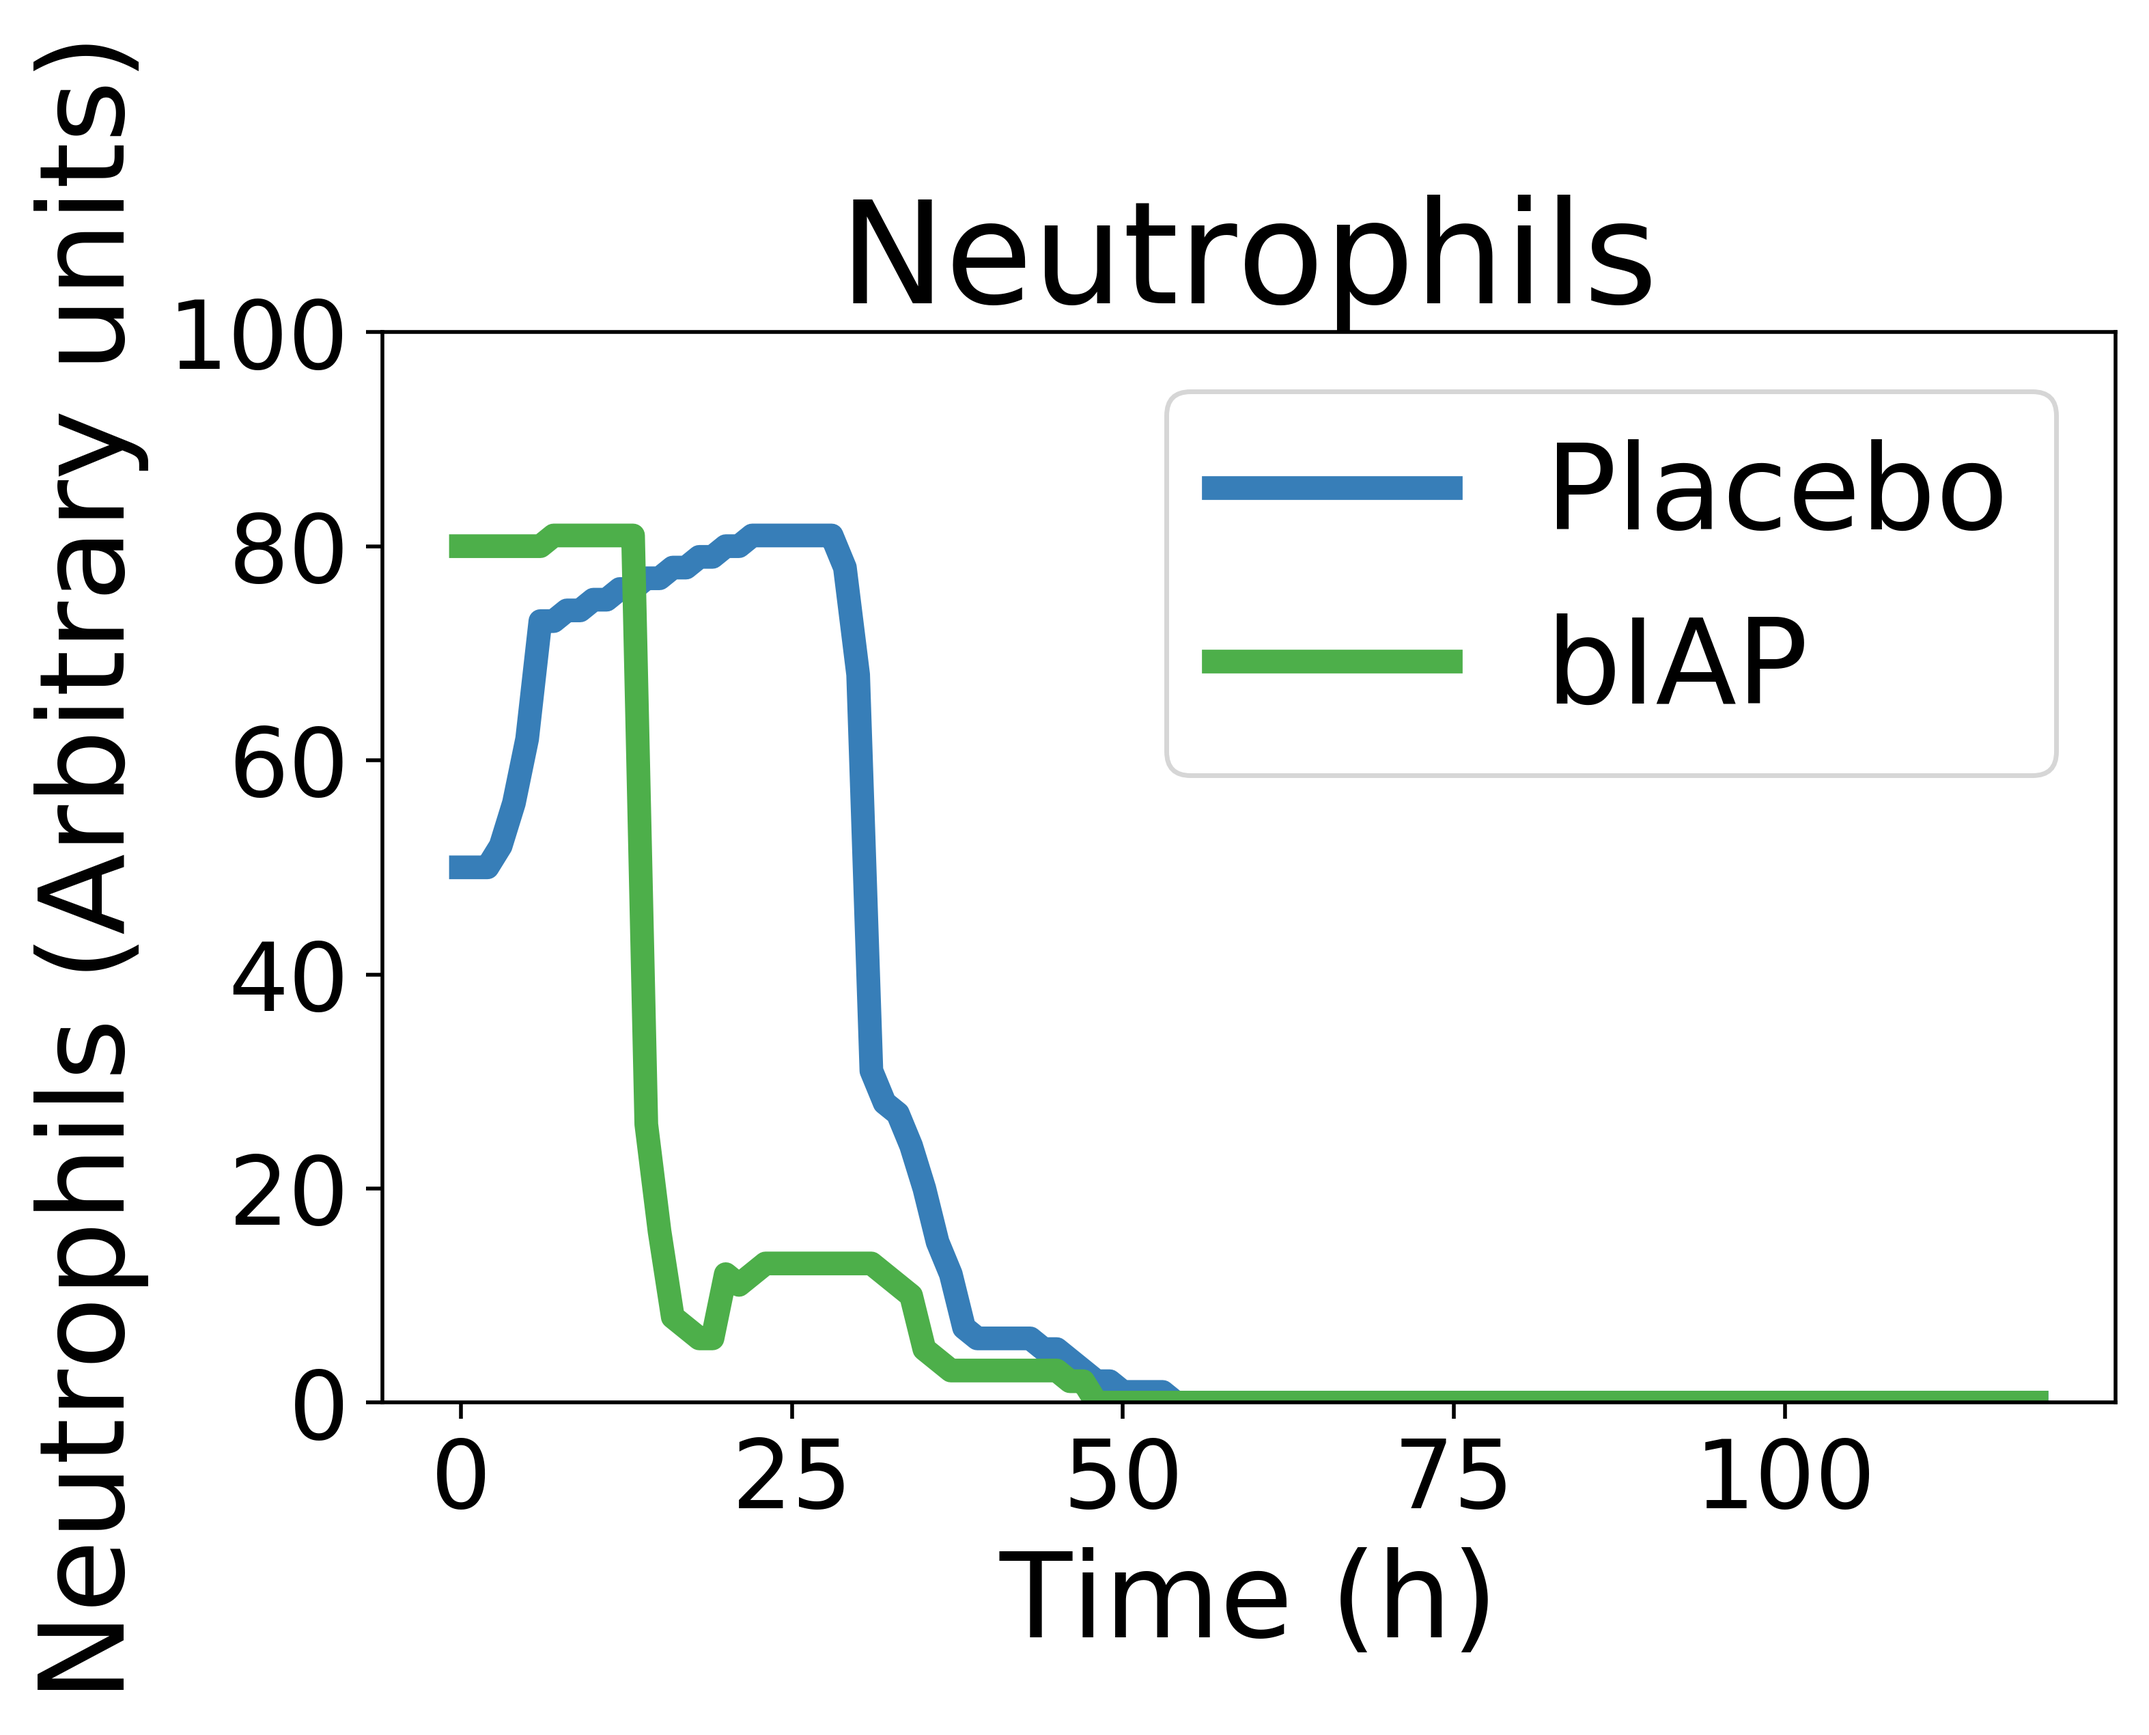
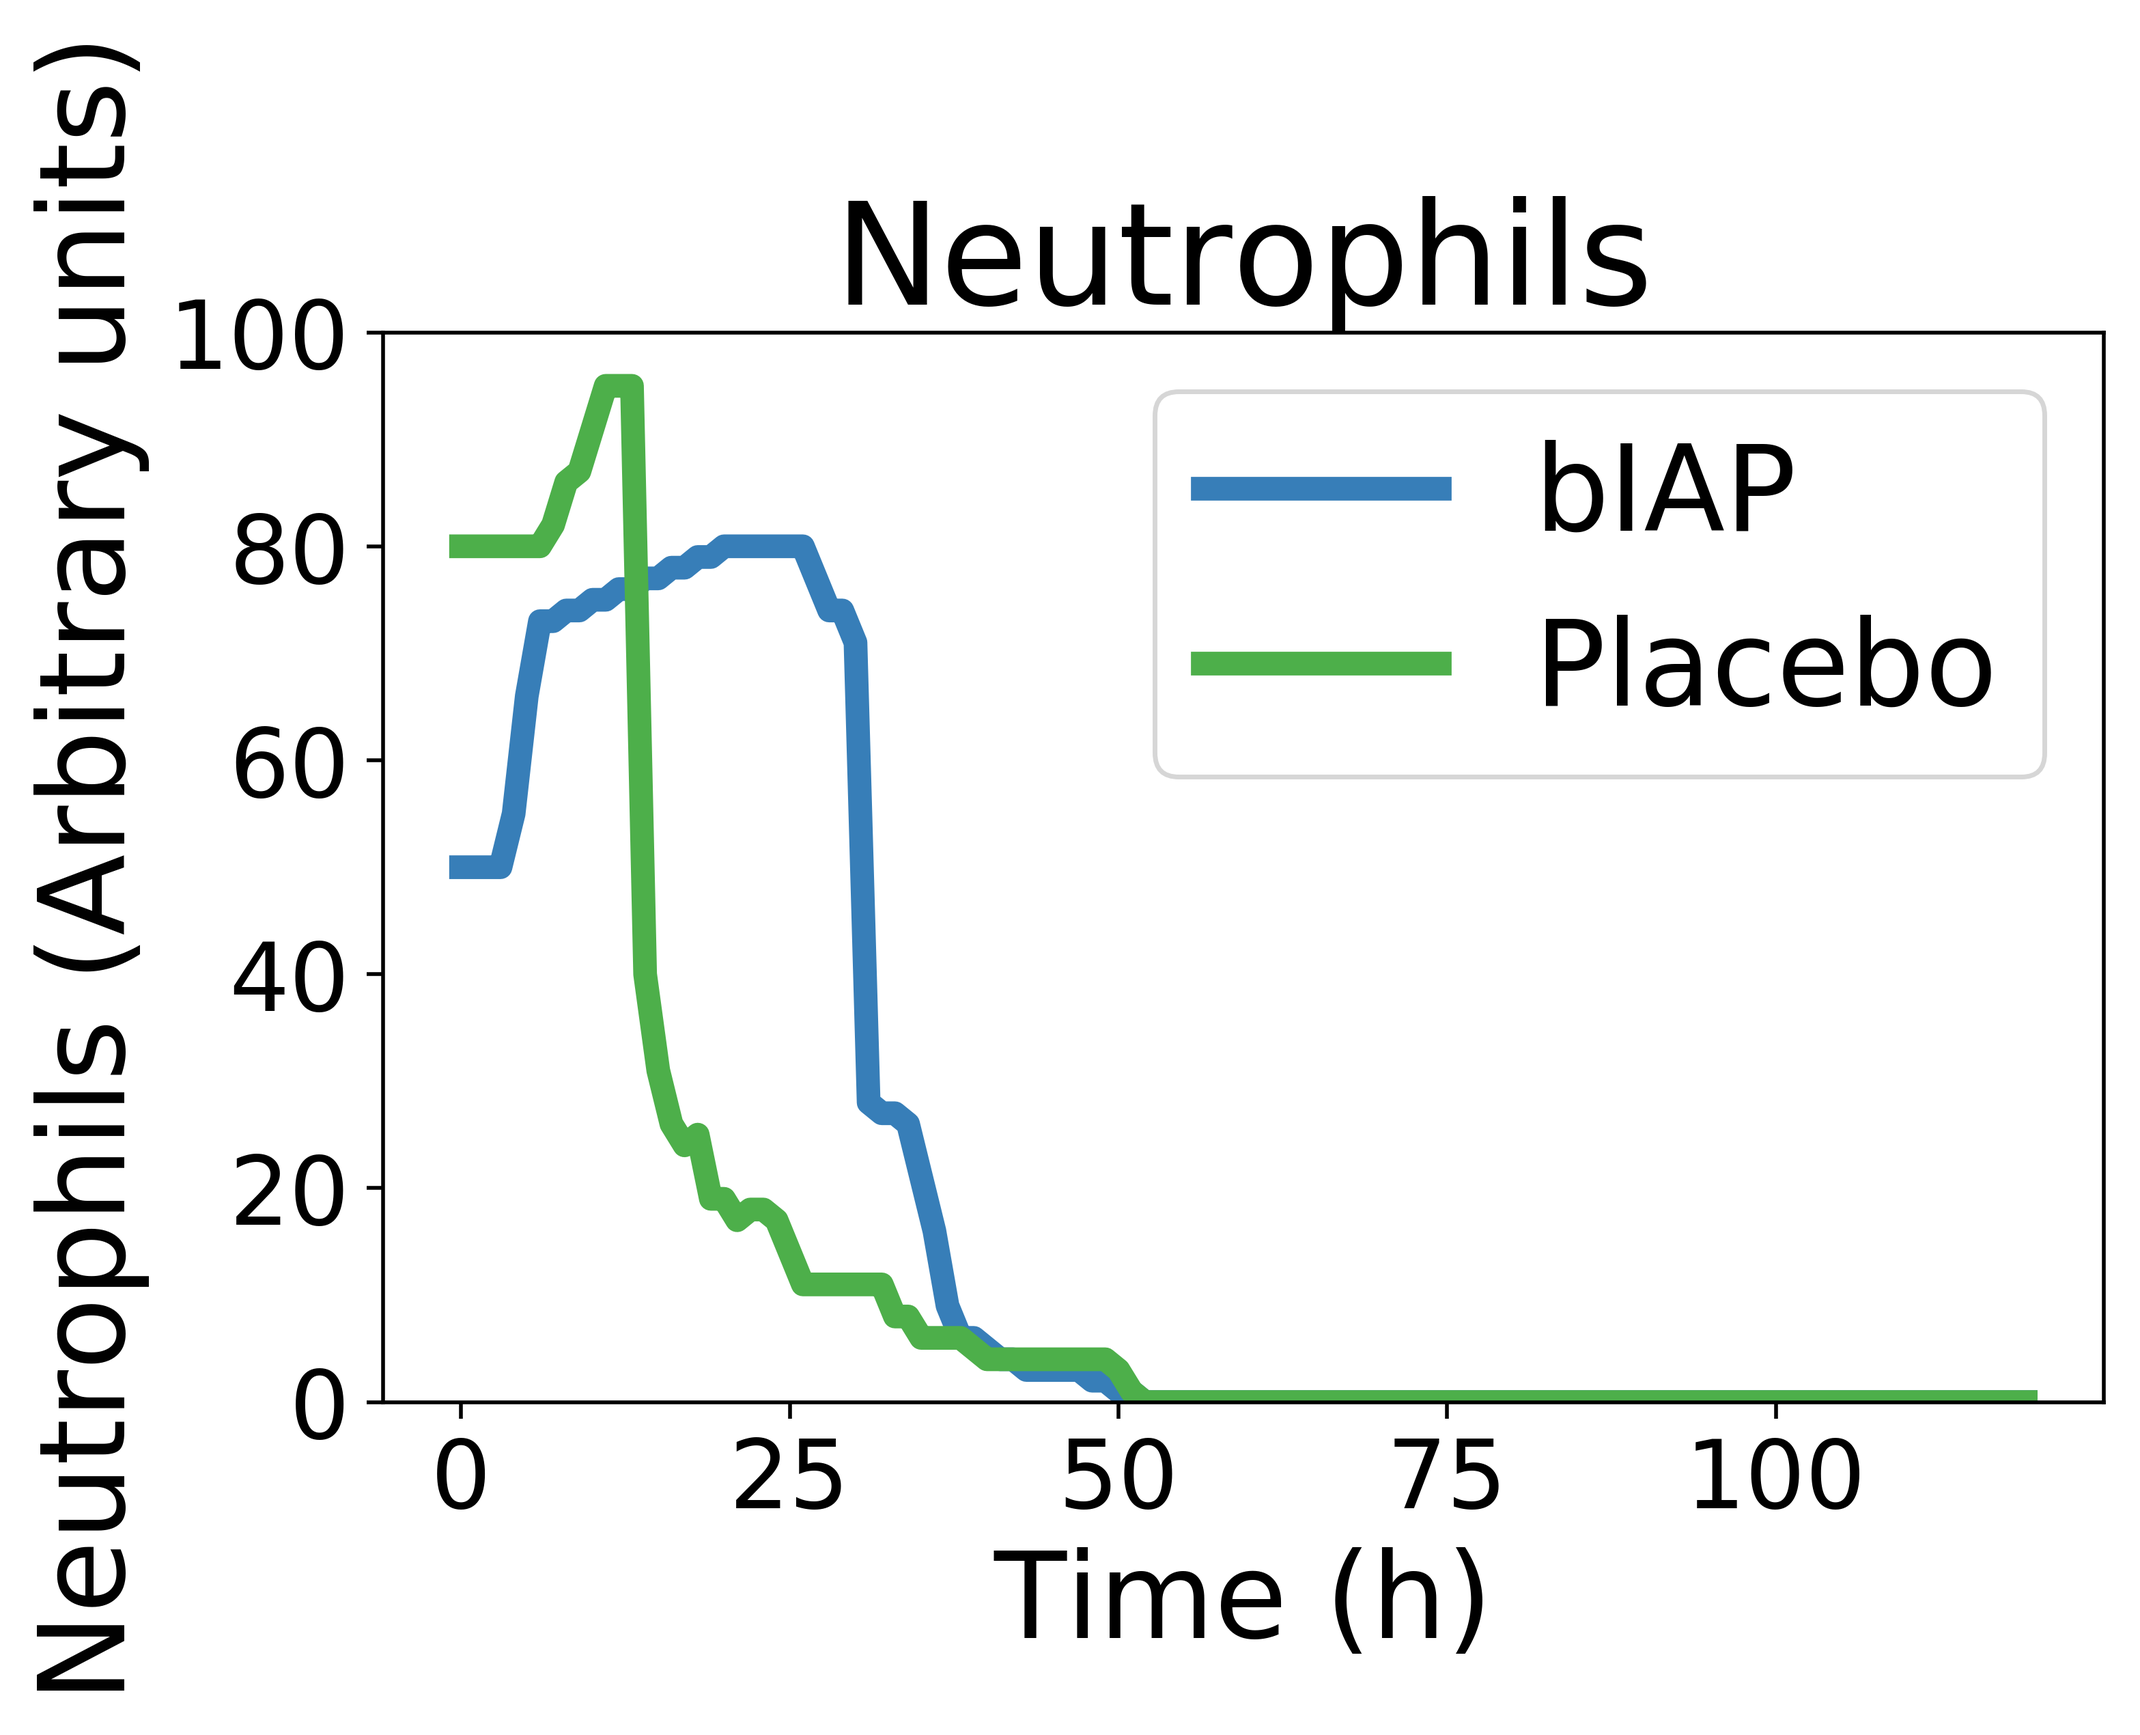
local blood supply update

diff --git a/ABM/server.py b/ABM/server.py
@@ -8,10 +8,10 @@ from ABM import WoundModel
 from agents import *
 
 
-Neutrophil_slider = UserSettableParameter('slider', "Number of Neutrophils", 50, 1, 100, 1)
-Macrophage_slider = UserSettableParameter('slider', "Number of Macrophages", 50, 1, 100, 1)
-Fibroblast_slider = UserSettableParameter('slider', "Number of Fibroblasts", 50, 1, 200, 1)
-wound_size_slider = UserSettableParameter('slider', 'Wound Radius',10,1,10,1)
+Neutrophil_slider = UserSettableParameter('slider', "Number of Neutrophils", 60, 1, 100, 1)
+Macrophage_slider = UserSettableParameter('slider', "Number of Macrophages", 60, 1, 100, 1)
+Fibroblast_slider = UserSettableParameter('slider', "Number of Fibroblasts", 80, 1, 200, 1)
+wound_size_slider = UserSettableParameter('slider', 'Wound Radius',11,1,12,1)
 coagulation_slider = UserSettableParameter('slider', 'Proportion of Coagulation', 0.7, 0, 1, 0.1)
 IL10_slider = UserSettableParameter('slider', 'Initial IL-10', 0.5, 0, 1, 0.1)
 IL6_slider = UserSettableParameter('slider', 'Initial IL6', 0.5, 0, 1, 0.1)
@@ -26,11 +26,11 @@ def agent_portrayal(agent):
                  "w": 1, "h": 1}
 
     if type(agent) is Endothelial:
-        if agent.oxy >= 25 and agent.coll >= 100:
+        if agent.oxy >= 25 and agent.coll == 100:
 
             portrayal["Color"] = "tan"
             portrayal["Layer"] = 0
-        elif agent.oxy >= 25 and agent.coll >= 100:
+        elif agent.oxy >= 25 and agent.coll > 100:
             portrayal["Color"] = "#FFA54F"
             portrayal["Layer"] = 0
         elif agent.oxy >= 25 and agent.coll < 100:

diff --git a/ABM/agents.py b/ABM/agents.py
@@ -79,7 +79,7 @@ class Endothelial(Agent):
             self.macrophage_time = 0
 
 
-        if self.TNFa > 1 and self.oxy >= 25 and self.IL6 > 1 and self.model.resting_neutrophils > 0 and self.oxy<100  and self.model.blood_flow() <90:
+        if self.TNFa > 1 and self.oxy >= 25 and self.IL6 > 1 and self.model.resting_neutrophils > 0 and self.oxy<100  and self.model.blood_flow() <95 and self.coll<100:
             self.attract_neutrophil()
             self.neutrophil_time = 0
 
@@ -87,6 +87,16 @@ class Endothelial(Agent):
         if self.TGFb > 5 and self.coll < 100 and self.fibroblast_time % 8 == 0  and self.model.resting_fibroblasts > 0 :
             self.attract_fibroblast()
             self.fibroblast_time = 0
+
+        neighbors = self.model.grid.get_neighbors(self.pos, moore=True, include_center=False)
+        local_blood_supply = 0
+        for agent in neighbors:
+            if type(agent) is Endothelial:
+                local_blood_supply = local_blood_supply + agent.oxy
+        if(local_blood_supply>700):
+            self.oxy = self.oxy + 10
+
+        if(self.oxy>100): self.oxy = 100
 
         self.decay_cytokines()
 

diff --git a/ABM/ABM.py b/ABM/ABM.py
@@ -342,7 +342,7 @@ def run_model(step_count=120):
     print('... Plotting collagen')
     plt.savefig('results/' + 'Collagen.png', format='png', dpi=500, bbox_inches='tight')
 
-run_model()
+#run_model()
 
 def run_calibration(step_count=120):
     model = WoundModel(50,50,50,0.5,0.5,0.5,0.5,25,25,10,0.5)
